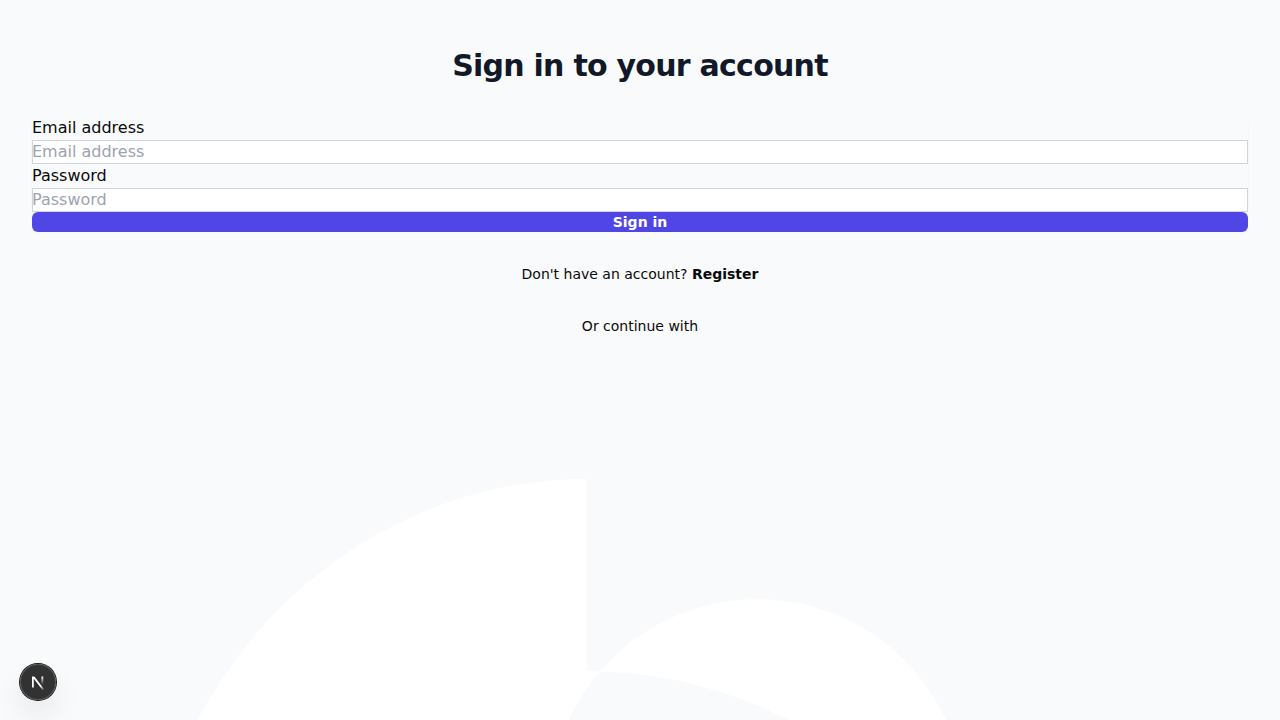
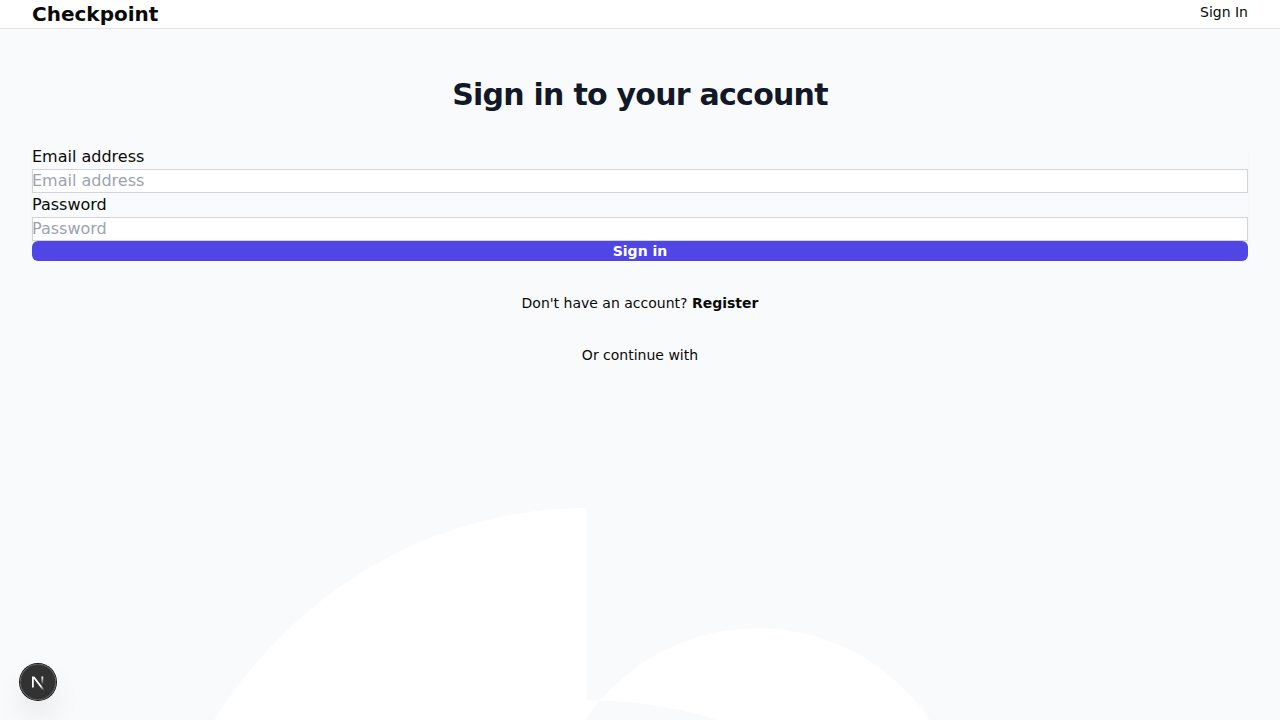
Fix: Improve navigation flow and redirect to dashboard after import/login
- Added middleware to redirect authenticated users from / to /dashboard
- Added redirection to /dashboard after successful Steam import
- Added global Navbar component with Dashboard link
- Added 'Go to Dashboard' CTA on home page
- Implemented mobile-responsive navigation links

diff --git a/components/layout/Navbar.tsx b/components/layout/Navbar.tsx
@@ -1,0 +1,79 @@
+import Link from 'next/link';
+import { SignOutButton } from '@/components/auth/sign-out-button';
+import { auth } from '@/auth';
+
+export default async function Navbar() {
+  const session = await auth();
+
+  return (
+    <nav className="bg-white dark:bg-black border-b border-zinc-200 dark:border-zinc-800">
+      <div className="max-w-7xl mx-auto px-4 sm:px-6 lg:px-8">
+        <div className="flex justify-between h-16">
+          <div className="flex">
+            <div className="flex-shrink-0 flex items-center">
+              <Link href="/" className="text-xl font-bold text-indigo-600 dark:text-indigo-400">
+                Checkpoint
+              </Link>
+            </div>
+            {session && (
+              <div className="hidden sm:ml-6 sm:flex sm:space-x-8">
+                <Link
+                  href="/dashboard"
+                  className="inline-flex items-center px-1 pt-1 border-b-2 border-transparent text-sm font-medium text-gray-500 hover:text-gray-700 hover:border-gray-300 dark:text-gray-400 dark:hover:text-gray-300 dark:hover:border-gray-700"
+                >
+                  Dashboard
+                </Link>
+                <Link
+                  href="/import"
+                  className="inline-flex items-center px-1 pt-1 border-b-2 border-transparent text-sm font-medium text-gray-500 hover:text-gray-700 hover:border-gray-300 dark:text-gray-400 dark:hover:text-gray-300 dark:hover:border-gray-700"
+                >
+                  Import
+                </Link>
+              </div>
+            )}
+          </div>
+          {/* Desktop Right Side */}
+          <div className="hidden sm:ml-6 sm:flex sm:items-center gap-4">
+             {session ? (
+                 <>
+                    <span className="text-sm text-gray-500 dark:text-gray-400">
+                        {session.user?.name || session.user?.email}
+                    </span>
+                    <SignOutButton />
+                 </>
+             ) : (
+                 <Link
+                    href="/login"
+                    className="text-sm font-medium text-indigo-600 hover:text-indigo-500 dark:text-indigo-400"
+                 >
+                     Sign In
+                 </Link>
+             )}
+          </div>
+
+          {/* Mobile Right Side - Simplified */}
+          <div className="flex items-center sm:hidden gap-4">
+             {session ? (
+                 <>
+                    <Link
+                      href="/dashboard"
+                       className="text-sm font-medium text-gray-500 hover:text-gray-900 dark:text-gray-400 dark:hover:text-gray-200"
+                    >
+                      Dash
+                    </Link>
+                    <SignOutButton />
+                 </>
+             ) : (
+                 <Link
+                    href="/login"
+                    className="text-sm font-medium text-indigo-600 hover:text-indigo-500 dark:text-indigo-400"
+                 >
+                     Sign In
+                 </Link>
+             )}
+          </div>
+        </div>
+      </div>
+    </nav>
+  );
+}

diff --git a/app/page.tsx b/app/page.tsx
@@ -1,7 +1,6 @@
 import Image from "next/image";
 import Link from "next/link";
 import { auth } from "@/auth";
-import { SignOutButton } from "@/components/auth/sign-out-button"; // Create this component
 
 export default async function Home() {
   const session = await auth();
@@ -29,12 +28,17 @@ export default async function Home() {
                   </p>
                    <div className="flex gap-4">
                       <Link
-                          href="/import"
+                          href="/dashboard"
                           className="rounded-md bg-indigo-600 px-3.5 py-2.5 text-sm font-semibold text-white shadow-sm hover:bg-indigo-500 focus-visible:outline focus-visible:outline-2 focus-visible:outline-offset-2 focus-visible:outline-indigo-600"
+                      >
+                          Go to Dashboard
+                      </Link>
+                      <Link
+                          href="/import"
+                          className="rounded-md bg-white px-3.5 py-2.5 text-sm font-semibold text-gray-900 shadow-sm ring-1 ring-inset ring-gray-300 hover:bg-gray-50 dark:bg-zinc-900 dark:text-white dark:ring-zinc-700 dark:hover:bg-zinc-800"
                       >
                           Import Steam Games
                       </Link>
-                      <SignOutButton />
                    </div>
               </div>
           ) : (

diff --git a/middleware.ts b/middleware.ts
@@ -1,0 +1,33 @@
+import { getToken } from "next-auth/jwt";
+import { NextResponse } from "next/server";
+import type { NextRequest } from "next/server";
+
+export async function middleware(req: NextRequest) {
+  const token = await getToken({ req });
+  const isAuth = !!token;
+  const isAuthPage = req.nextUrl.pathname.startsWith('/login') || req.nextUrl.pathname.startsWith('/register');
+  const isRootPage = req.nextUrl.pathname === '/';
+
+  // If user is authenticated and tries to access login/register or root, redirect to dashboard
+  if (isAuth && (isAuthPage || isRootPage)) {
+    return NextResponse.redirect(new URL('/dashboard', req.url));
+  }
+
+  // If user is NOT authenticated and tries to access protected routes, redirect to login
+  // Add other protected routes here if needed
+  const isProtectedPath = req.nextUrl.pathname.startsWith('/dashboard') || req.nextUrl.pathname.startsWith('/import');
+
+  if (!isAuth && isProtectedPath) {
+    let from = req.nextUrl.pathname;
+    if (req.nextUrl.search) {
+      from += req.nextUrl.search;
+    }
+    return NextResponse.redirect(new URL(`/login?callbackUrl=${encodeURIComponent(from)}`, req.url));
+  }
+
+  return NextResponse.next();
+}
+
+export const config = {
+  matcher: ['/', '/login', '/register', '/dashboard/:path*', '/import/:path*'],
+};

diff --git a/components/import/import-interface.tsx b/components/import/import-interface.tsx
@@ -1,10 +1,12 @@
 'use client';
 
 import { useState } from 'react';
+import { useRouter } from 'next/navigation';
 import { SteamGame } from '@/lib/steam';
 import { importGames } from '@/actions/steam';
 
 export default function ImportInterface({ initialGames }: { initialGames: SteamGame[] }) {
+  const router = useRouter();
   const [games] = useState<SteamGame[]>(initialGames);
   const [minPlaytime, setMinPlaytime] = useState(0);
   const [selectedGames, setSelectedGames] = useState<Set<number>>(new Set(initialGames.map(g => g.appid)));
@@ -38,6 +40,8 @@ export default function ImportInterface({ initialGames }: { initialGames: SteamG
       const gamesToImport = filteredGames.filter(g => selectedGames.has(g.appid));
       const result = await importGames(gamesToImport);
       setMessage(`Successfully imported ${result.count} games!`);
+      router.refresh();
+      router.push('/dashboard');
     } catch (error) {
       setMessage('Error importing games.');
       console.error(error);

diff --git a/components/auth/sign-out-button.tsx b/components/auth/sign-out-button.tsx
@@ -1,13 +1,14 @@
 'use client';
-import { signOut } from "next-auth/react";
+
+import { signOut } from 'next-auth/react';
 
 export function SignOutButton() {
-    return (
-        <button
-            onClick={() => signOut()}
-            className="rounded-md bg-white px-3.5 py-2.5 text-sm font-semibold text-gray-900 shadow-sm ring-1 ring-inset ring-gray-300 hover:bg-gray-50"
-        >
-            Sign out
-        </button>
-    )
+  return (
+    <button
+      onClick={() => signOut({ callbackUrl: '/' })}
+      className="text-sm font-medium text-gray-500 hover:text-gray-900 dark:text-gray-400 dark:hover:text-gray-200"
+    >
+      Sign Out
+    </button>
+  );
 }

diff --git a/app/layout.tsx b/app/layout.tsx
@@ -1,5 +1,6 @@
 import type { Metadata, Viewport } from "next";
 import { Geist, Geist_Mono } from "next/font/google";
+import Navbar from "@/components/layout/Navbar";
 import "./globals.css";
 
 const geistSans = Geist({
@@ -31,6 +32,7 @@ export default function RootLayout({
       <body
         className={`${geistSans.variable} ${geistMono.variable} antialiased`}
       >
+        <Navbar />
         {children}
       </body>
     </html>

diff --git a/verification/verify_mobile.py b/verification/verify_mobile.py
@@ -1,0 +1,45 @@
+from playwright.sync_api import sync_playwright
+
+def verify_mobile_navigation():
+    with sync_playwright() as p:
+        browser = p.chromium.launch(headless=True)
+        page = browser.new_page(viewport={"width": 375, "height": 667})
+
+        try:
+            # 1. Visit Home Page
+            page.goto("http://localhost:3000/")
+            page.wait_for_load_state("networkidle")
+
+            # Take screenshot of Home Page Mobile
+            page.screenshot(path="verification/mobile_home_page.png")
+            print("Mobile home page screenshot taken.")
+
+            # 2. Check for Navbar Logo
+            logo = page.get_by_text("Checkpoint")
+            if logo.is_visible():
+                print("Mobile Navbar logo found.")
+            else:
+                print("Mobile Navbar logo NOT found.")
+
+            # 3. Check for Sign In link in Navbar specifically
+            # We locate the nav element first
+            navbar = page.locator("nav")
+            # In mobile view, we expect at least one Sign In link to be visible (the mobile one).
+            # Note: The desktop one has 'hidden sm:flex', so it should be hidden.
+            # However, Playwright is_visible() checks if it's painted. 'hidden' class does display: none.
+
+            sign_in_links = navbar.get_by_role("link", name="Sign In").all()
+            visible_links = [link for link in sign_in_links if link.is_visible()]
+
+            if len(visible_links) > 0:
+                print(f"Found {len(visible_links)} visible Sign In link(s) in Navbar.")
+            else:
+                print("No visible Sign In link found in Navbar.")
+
+        except Exception as e:
+            print(f"Error: {e}")
+        finally:
+            browser.close()
+
+if __name__ == "__main__":
+    verify_mobile_navigation()

diff --git a/verification/verify_nav.py b/verification/verify_nav.py
@@ -1,0 +1,45 @@
+from playwright.sync_api import sync_playwright
+
+def verify_dashboard_navigation():
+    with sync_playwright() as p:
+        browser = p.chromium.launch(headless=True)
+        page = browser.new_page()
+
+        try:
+            # 1. Visit Home Page
+            page.goto("http://localhost:3000/")
+            page.wait_for_load_state("networkidle")
+
+            # Take screenshot of Home Page
+            page.screenshot(path="verification/home_page.png")
+            print("Home page screenshot taken.")
+
+            # 2. Check for Navbar
+            logo = page.get_by_text("Checkpoint")
+            if logo.is_visible():
+                print("Navbar logo found.")
+            else:
+                print("Navbar logo NOT found.")
+
+            # 3. Check for Sign In link in Navbar specifically
+            # We can scope it to the nav element
+            navbar = page.locator("nav")
+            sign_in_nav = navbar.get_by_role("link", name="Sign In")
+            if sign_in_nav.is_visible():
+                print("Navbar Sign In link found.")
+            else:
+                print("Navbar Sign In link NOT found.")
+
+            # 4. Visit Login Page to see Navbar there too
+            page.goto("http://localhost:3000/login")
+            page.wait_for_load_state("networkidle")
+            page.screenshot(path="verification/login_page.png")
+            print("Login page screenshot taken.")
+
+        except Exception as e:
+            print(f"Error: {e}")
+        finally:
+            browser.close()
+
+if __name__ == "__main__":
+    verify_dashboard_navigation()
